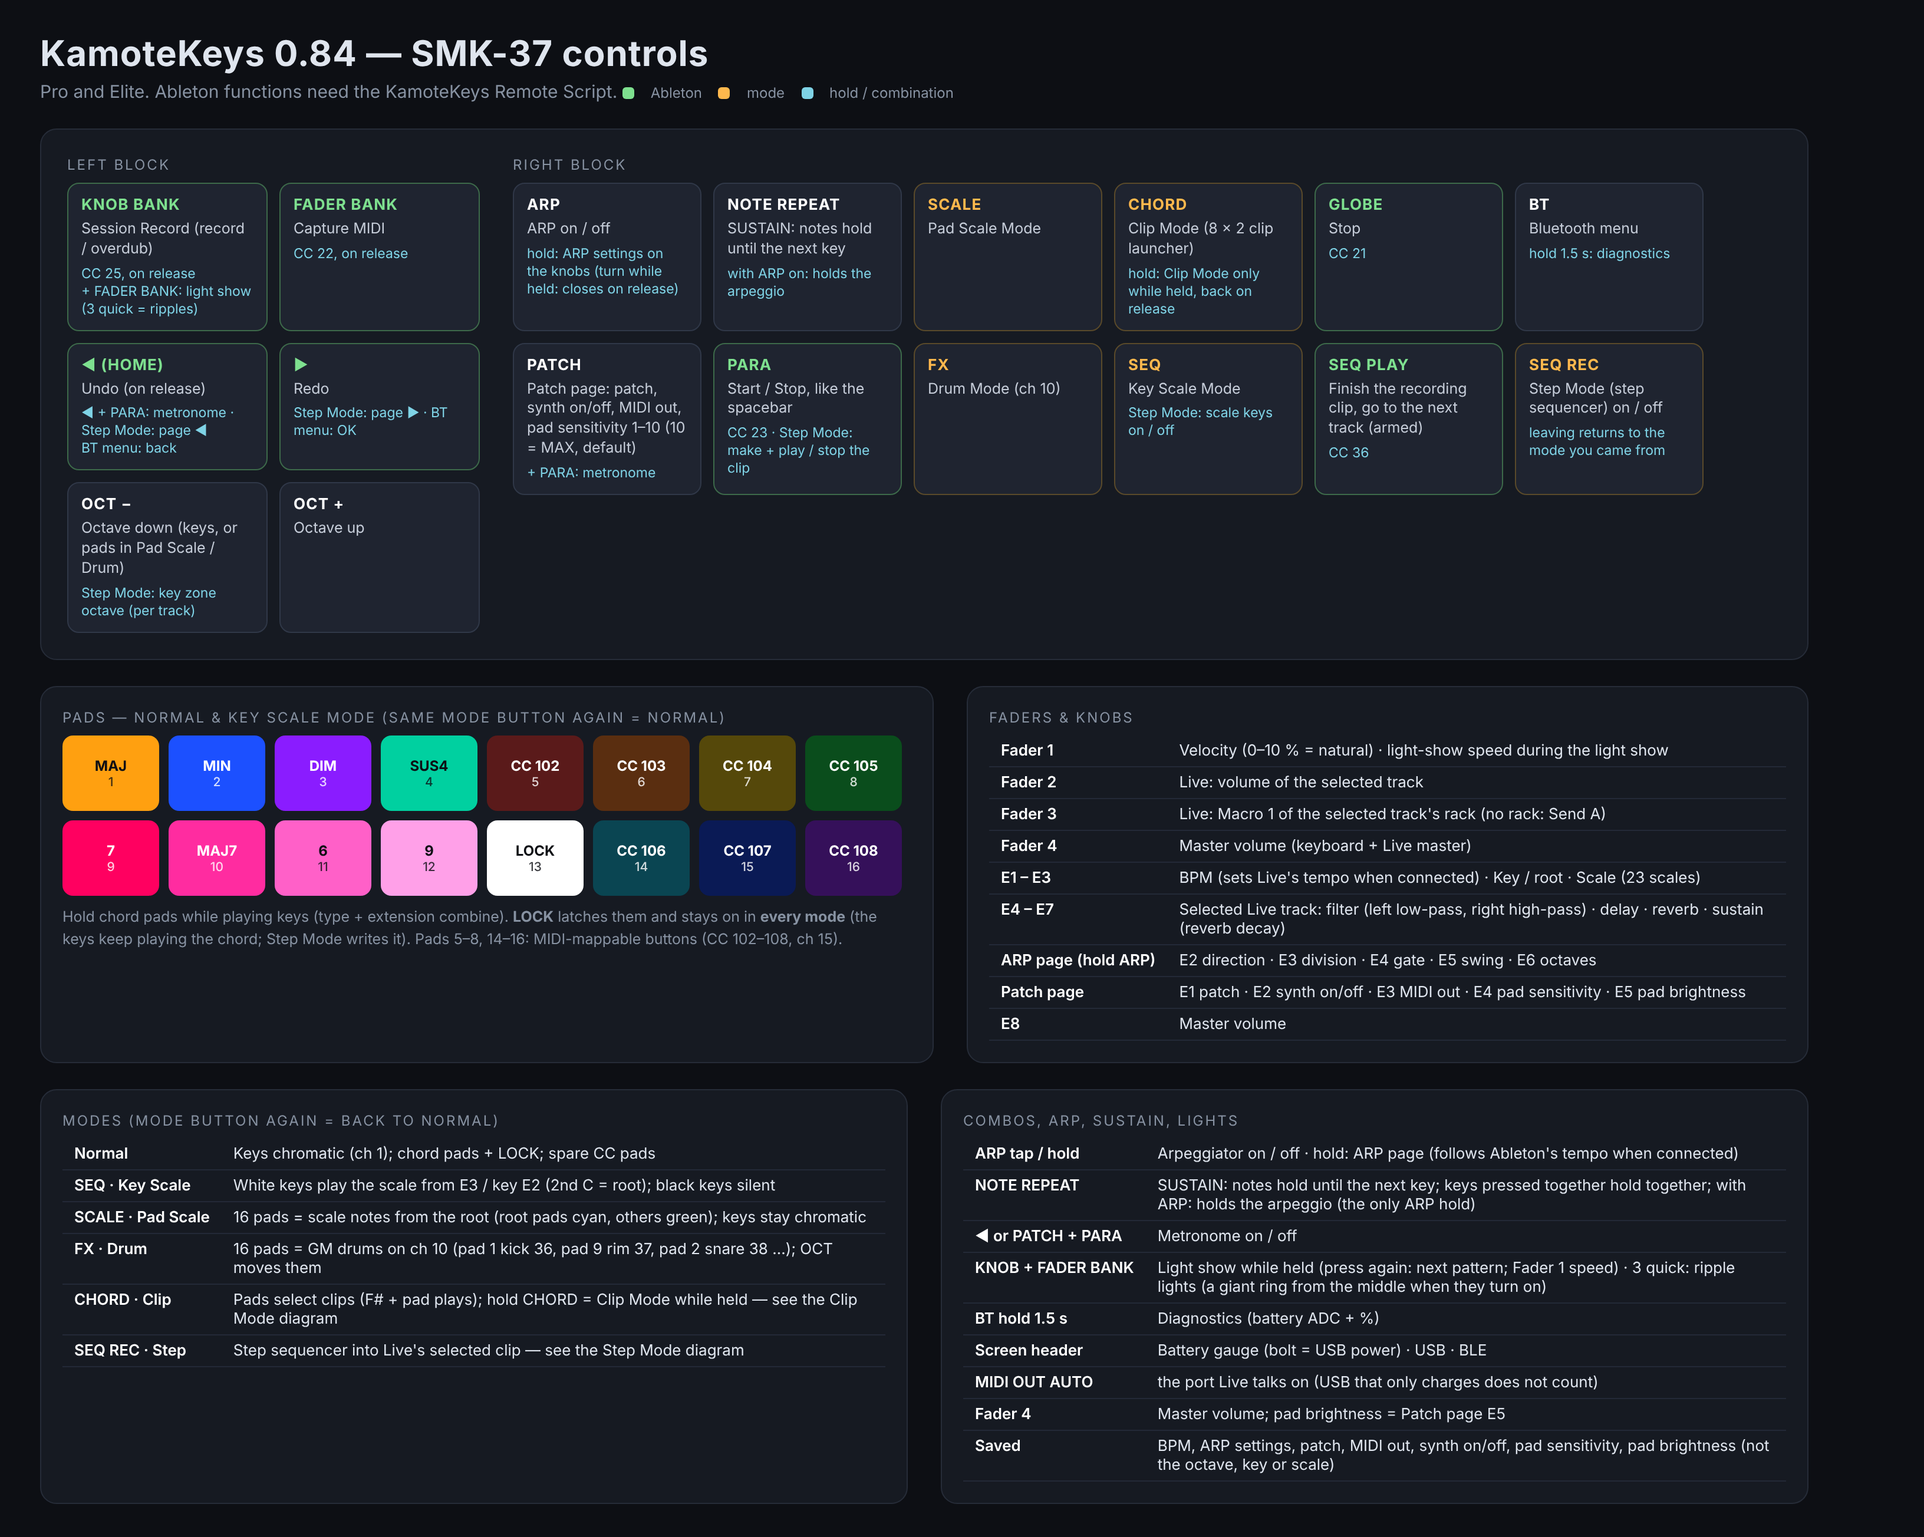
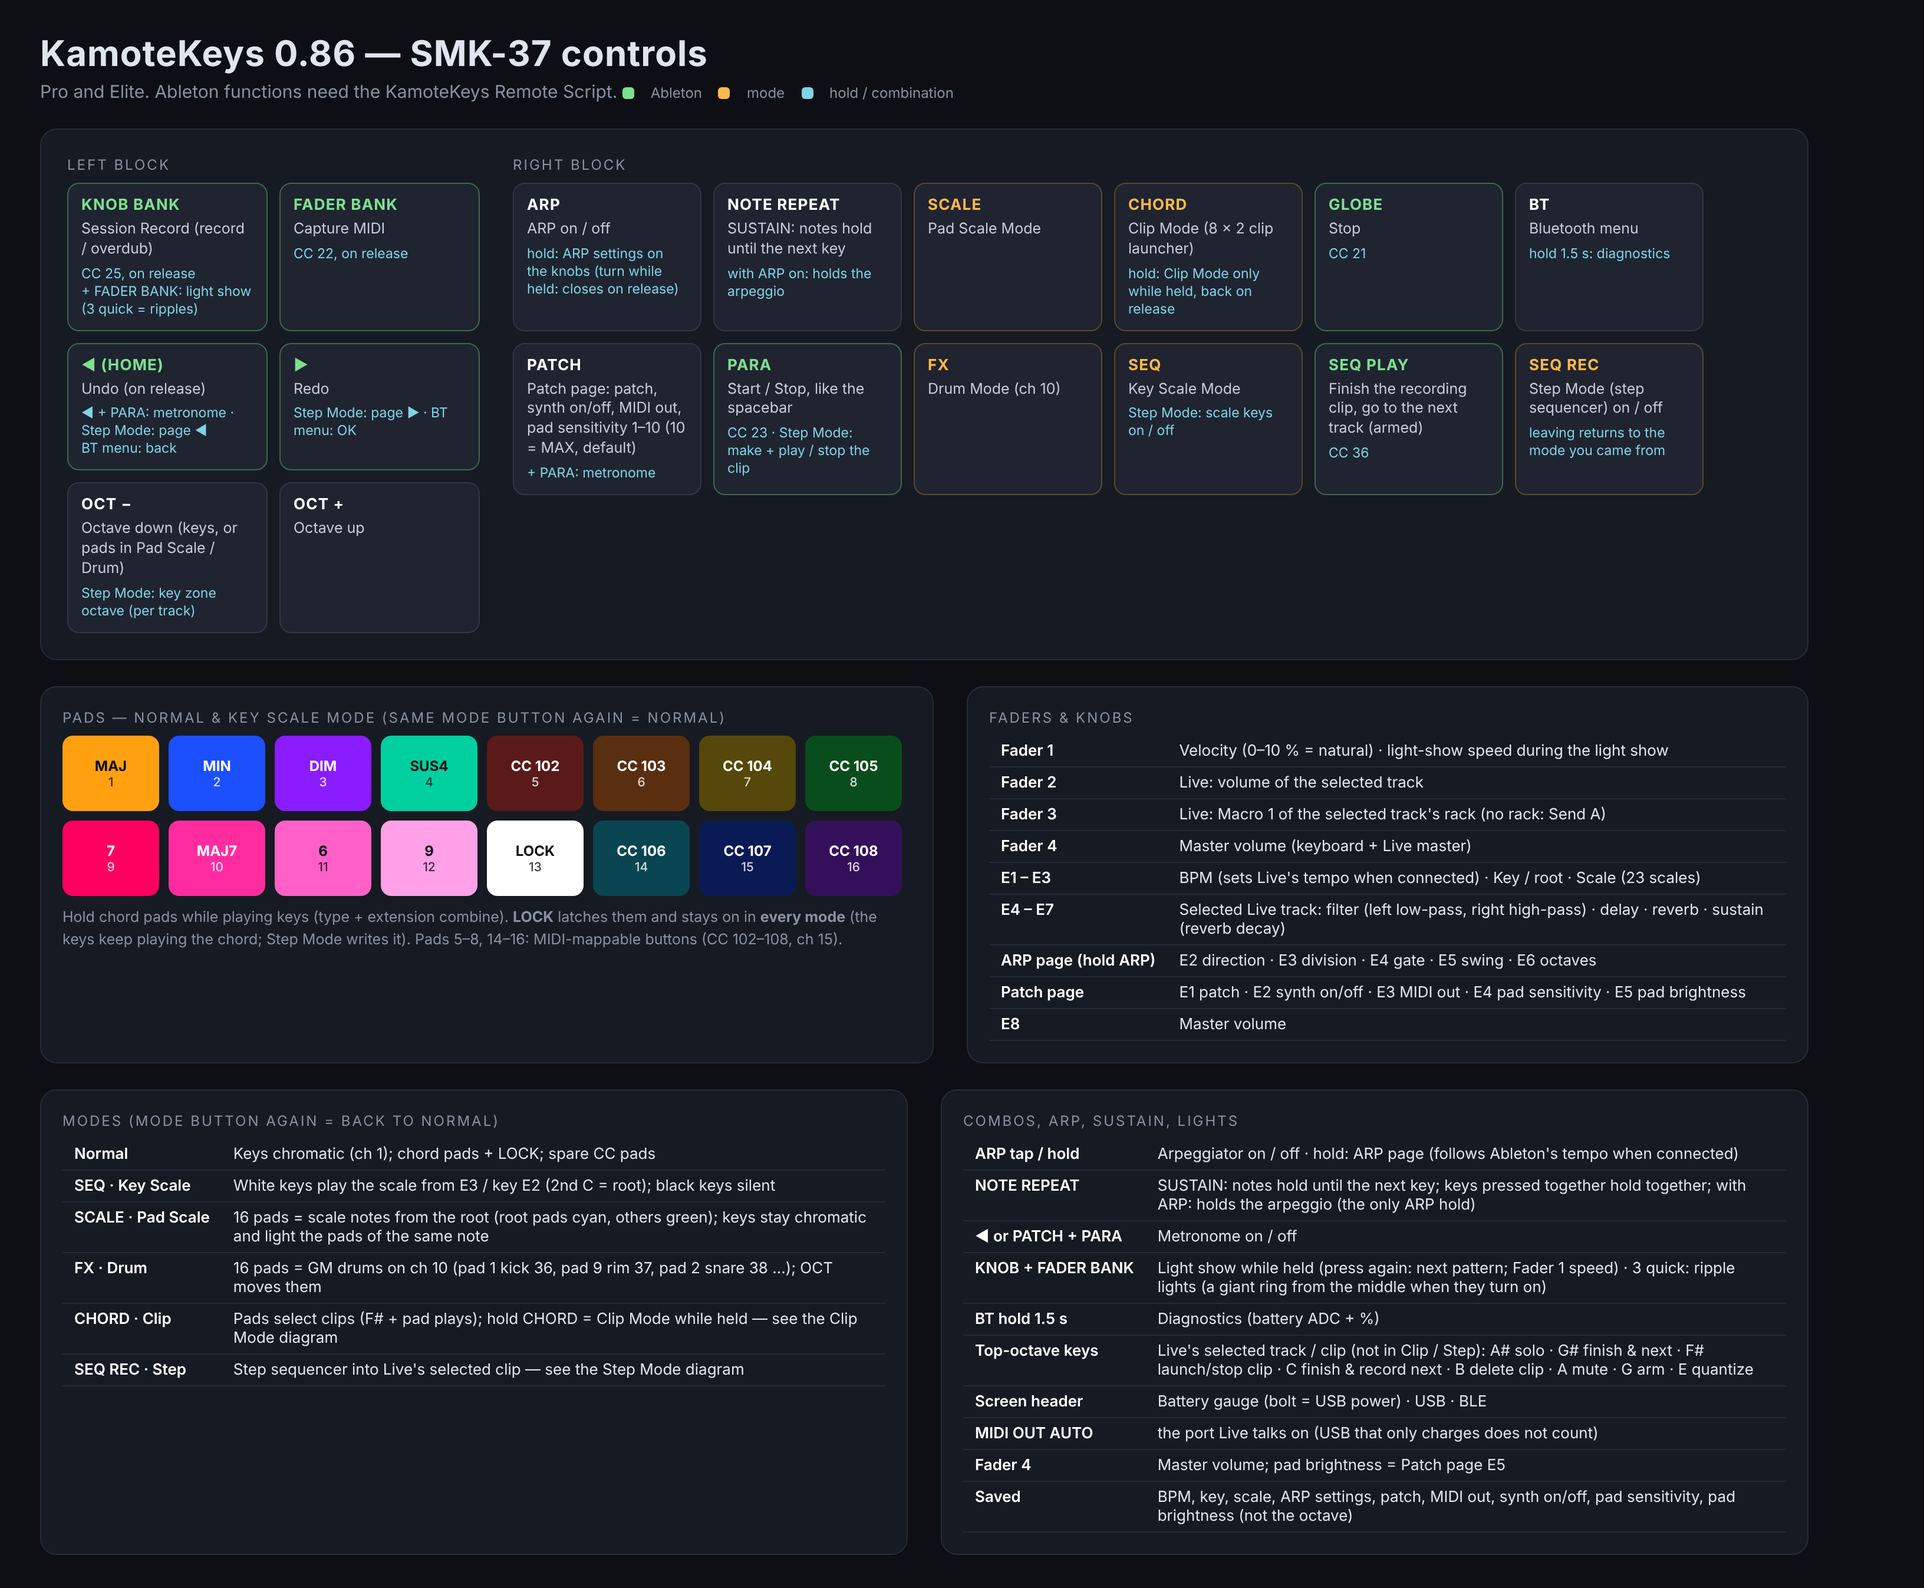
Docs for 0.85-0.86: top-octave Live keys, hold to scroll tracks, Pad Scale octave lighting, key/scale saved
README, HOW_TO_USE, MIDI_MAPPING, ABLETON_REMOTE_SCRIPT, CHANGELOG and the
SMK-37 diagrams.

Claude-Session: https://claude.ai/code/session_014nKCDtX9z2HT4cnrjTFgfW

diff --git a/README.md b/README.md
@@ -105,6 +105,24 @@ Diagrams: [all controls](docs/diagrams/SMK37-Controls.png) · [every control in 
 | RIGHT ▶ | Ableton **Redo** (CC 27). In the BT menu: SAVE (OK) | |
 | OCT − / OCT + | Octave −4 … +4. Keyboard starts at **−2**; in Pad Scale/Drum Mode they move the pad octave (starts at 0) | |
 
+### Top-octave Live keys
+
+In Normal, Key Scale, Pad Scale and Drum Mode the top octave controls the track and clip **selected in Live** (needs the Remote Script; Clip and Step Mode keep their own keys):
+
+| Key | Does |
+|---|---|
+| top **A#** | **Solo** the selected track on / off |
+| top **G#** | **Finish & next track** (same as SEQ PLAY) |
+| top **F#** | **Launch / stop** the selected clip (an empty slot on an armed track records) |
+| top **C** | **Finish & record next**: finish, select and arm the next track and record there at once (next empty slot) |
+| top **B** | **Delete** the selected clip |
+| top **A** | **Mute** the selected track on / off |
+| top **G** | **Arm** the selected track on / off |
+| top **F** | nothing (silent) |
+| top **E** | **Quantize** the selected clip (to Live's record quantization, else 1/16) |
+
+Top C#, D and D# still play notes.
+
 All Ableton commands are on **MIDI channel 15**. The pad map and the button-index verification are in [docs/CONTROLS.md](docs/CONTROLS.md).
 
 ## Faders
@@ -162,7 +180,7 @@ The **second physical C** plays the selected tonic, at octave 0 the tonic in the
 
 ### Clip Mode (CHORD)
 
-Pads 1–8 launch clip 1 and pads 9–16 clip 2 of Live tracks 1–8, on channel 16, with LEDs that follow Live (empty very dim, stopped dim blue, playing green, queued blinking amber, recording red). Needs the [KamoteKeys Remote Script](docs/ABLETON_REMOTE_SCRIPT.md). A plain pad press **selects** the slot and arms its track (so KNOB BANK records there); **F#** is **PLAY**: hold it and press clips to launch / stop them, or tap it and the next clip pressed is launched. Hold the **top F** + top G# / A# to move Live's selected clip a scene up / down. Hold the **lowest C** + a clip to **overdub** into it. Lowest black keys: **C# COPY**, **D# PASTE** (tap = next pad, hold = several), F# PLAY, **G# STOP** (hold + clips, or tap: the selected clip), **A# DELETE** (hold + clip); low **D = Scene Arrange** (tap pads to choose which tracks play in each scene; top F# launches exactly those); white **top A / B** select the previous / next track (the 8-track view follows when the selection leaves it: going left the track becomes the first of the 8, going right the last); top **F# / G# / A#** = scene launch / up / down. **Hold CHORD** from any mode for Clip Mode only while held. The screen shows the clip state, Live's selected track (number and name, big), the scene and the 8 tracks in view, and what is copied; the pad map shows each pad's track number and the start of its name. Live's highlighted slot is **violet**. Full guide: [docs/ABLETON_REMOTE_SCRIPT.md](docs/ABLETON_REMOTE_SCRIPT.md), [diagram](docs/diagrams/SMK37-Clip-Mode.png).
+Pads 1–8 launch clip 1 and pads 9–16 clip 2 of Live tracks 1–8, on channel 16, with LEDs that follow Live (empty very dim, stopped dim blue, playing green, queued blinking amber, recording red). Needs the [KamoteKeys Remote Script](docs/ABLETON_REMOTE_SCRIPT.md). A plain pad press **selects** the slot and arms its track (so KNOB BANK records there); **F#** is **PLAY**: hold it and press clips to launch / stop them, or tap it and the next clip pressed is launched. Hold the **top F** + top G# / A# to move Live's selected clip a scene up / down. Hold the **lowest C** + a clip to **overdub** into it. Lowest black keys: **C# COPY**, **D# PASTE** (tap = next pad, hold = several), F# PLAY, **G# STOP** (hold + clips, or tap: the selected clip), **A# DELETE** (hold + clip); low **D = Scene Arrange** (tap pads to choose which tracks play in each scene; top F# launches exactly those); white **top A / B** select the previous / next track (the 8-track view follows when the selection leaves it: going left the track becomes the first of the 8, going right the last; hold the key to move one more track every 0.5 s); top **F# / G# / A#** = scene launch / up / down. **Hold CHORD** from any mode for Clip Mode only while held. The screen shows the clip state, Live's selected track (number and name, big), the scene and the 8 tracks in view, and what is copied; the pad map shows each pad's track number and the start of its name. Live's highlighted slot is **violet**. Full guide: [docs/ABLETON_REMOTE_SCRIPT.md](docs/ABLETON_REMOTE_SCRIPT.md), [diagram](docs/diagrams/SMK37-Clip-Mode.png).
 
 ### Step Mode (SEQ REC)
 
@@ -170,7 +188,7 @@ A step sequencer that writes straight into the selected session clip in Live, la
 
 ### Pad Scale Mode (SCALE)
 
-All 16 pads play consecutive scale degrees in pad order (pad 1 = tonic at octave 3, e.g. D3), following the key (E2), the scale (E3) and the octave buttons. Channel 1. Root pads are **cyan** and the other pads **green**, both dim when idle and bright when pressed. The screen shows the note, root, scale and octave in a 2 × 8 pad map. The keyboard keeps playing chromatically.
+All 16 pads play consecutive scale degrees in pad order (pad 1 = tonic at octave 3, e.g. D3), following the key (E2), the scale (E3) and the octave buttons. Channel 1. Root pads are **cyan** and the other pads **green**, both dim when idle and bright when pressed or when that note sounds in any octave (so the keys light the pads of the notes you play). The screen shows the note, root, scale and octave in a 2 × 8 pad map. The keyboard keeps playing chromatically.
 
 ### Drum Mode (FX)
 
@@ -209,7 +227,7 @@ Encoders are numbered E1–E8, left to right; SMK37 OPEN calls them K1–K4, SEL
 | E7 | **Sustain** = reverb decay (selected track) | | | Action |
 | E8 | **Master volume** (always) | | | |
 
-E4–E7 need the Remote Script. It finds the effects on Live's selected track by type (also inside racks): Auto Filter; Delay, Echo, Ping Pong, Filter, Simple or Grain Delay; Reverb or Hybrid Reverb. The screen shows the new value, or `NO REVERB` etc. when the track has none. Hold **ARP** to edit the ARP settings with the knobs.
+E4–E7 need the Remote Script. It finds the effects on Live's selected track by name (also inside racks): an Auto Filter (old or new), any delay or Echo, any reverb (incl. Hybrid Reverb). If one is missing, Live's status bar lists the devices it saw. The screen shows the new value, or `NO REVERB` etc. when the track has none. Hold **ARP** to edit the ARP settings with the knobs.
 
 Changes on the main screen appear as a short message in the status line.
 
@@ -293,7 +311,7 @@ Note Offs always go to every port, so a port change between Note On and Note Off
 
 ## Saved settings
 
-Saved automatically, about 1.5 s after the last change and only while nothing is playing, in SMK37 OPEN's journaled settings sector: **BPM, ARP on/off, direction, division, gate, swing, octaves, DX7 patch, MIDI OUT ports, internal synth on/off, pad LED timing, pad sensitivity, pad brightness**. The **octave is not saved**: keys start at −2 and pads at 0 on every power-on. Key and scale (E2 / E3) are not saved: they start at C Major. Velocity comes from Fader 1; Faders 2 / 3 control Live and Fader 4 is the master volume. Bluetooth settings are stored by SMK37 OPEN as before.
+Saved automatically, about 1.5 s after the last change and only while nothing is playing, in SMK37 OPEN's journaled settings sector: **BPM, key, scale, ARP on/off, direction, division, gate, swing, octaves, DX7 patch, MIDI OUT ports, internal synth on/off, pad LED timing, pad sensitivity, pad brightness**. The **octave is not saved**: keys start at −2 and pads at 0 on every power-on. Velocity comes from Fader 1; Faders 2 / 3 control Live and Fader 4 is the master volume. Bluetooth settings are stored by SMK37 OPEN as before.
 
 ## Build
 

diff --git a/docs/ABLETON_REMOTE_SCRIPT.md b/docs/ABLETON_REMOTE_SCRIPT.md
@@ -68,7 +68,7 @@ Live talks to the script on **one** MIDI port. In Preferences → Link, Tempo & 
 | **C#** COPY | tap (or hold), then press a clip: it becomes the clipboard (replacing the last one) |
 | **D#** PASTE | tap, then the next pad gets a copy of the clip (Live's Duplicate); hold PASTE to paste into several pads; tap again to cancel |
 | **A#** DELETE | hold + a clip: delete it |
-| **top A / B** (white, 3rd / 2nd from the right) | select the previous / next track. The 8-track view follows when the selection leaves it (left: the track becomes the first of the 8, right: the last) and stops at the ends. No session box is drawn in Live, so Live's window only scrolls to keep the selected track in sight |
+| **top A / B** (white, 3rd / 2nd from the right) | select the previous / next track. The 8-track view follows when the selection leaves it (left: the track becomes the first of the 8, right: the last) and stops at the ends. Hold the key to move one more track every 0.5 s. No session box is drawn in Live, so Live's window only scrolls to keep the selected track in sight |
 | **G#** | **STOP** (0.77): hold + clips = stop them; a tap stops the selected clip |
 | **D** (white) | **Scene Arrange** on / off (below) |
 | top **F# / G# / A#** | launch the selected scene / scene up / scene down (the 8 × 2 grid scrolls with Live's selected scene) |
@@ -76,7 +76,9 @@ Live talks to the script on **one** MIDI port. In Preferences → Link, Tempo & 
 
 The screen shows the clip state, **Live's selected track (number and name)**, the scene and the 8 tracks in view, and the clipboard (COPIED T3 S2), or COPY: / PASTE: while it waits for a pad, and DELETE while A# is held. The pad map shows each pad's track number and the first letters of its name. **Hold CHORD** in any mode for Clip Mode only while it is held.
 
-**Mixing the selected track.** Fader 2 = its volume, Fader 3 = Macro 1 of its first rack (else Send A). Knobs E4–E7 = **filter** (Auto Filter: left = low-pass closing, centre = open, right = high-pass), **delay** amount (Delay, Echo, Ping Pong, Filter, Simple or Grain Delay: Dry/Wet), **reverb** amount (Reverb or Hybrid Reverb: Dry/Wet) and **sustain** (the reverb's Decay). The script looks at the track's devices and one level inside racks; the screen shows the new value or `NO DELAY` etc.
+**Mixing the selected track.** Fader 2 = its volume, Fader 3 = Macro 1 of its first rack (else Send A). Knobs E4–E7 = **filter** (Auto Filter: left = low-pass closing, centre = open, right = high-pass), **delay** amount (Delay, Echo, Ping Pong, Filter, Simple or Grain Delay: Dry/Wet), **reverb** amount (Reverb or Hybrid Reverb: Dry/Wet) and **sustain** (the reverb's Decay). The script looks at the track's devices and one level inside racks and matches them by name (old and new Auto Filter, any delay or Echo, any reverb); the screen shows the new value or `NO DELAY` etc., and Live's status bar then lists the devices it saw.
+
+**Top-octave Live keys** (outside Clip and Step Mode): A# solo, G# finish & next track, F# launch / stop the selected clip, C finish & record on the next track, B delete the selected clip, A mute, G arm, E quantize the selected clip (to Live's record quantization, else 1/16).
 
 **Scene Arrange (low D since 0.77).** The two pad rows are two scenes. Tap a pad to turn that track **on** (green) or **off** (dim orange) in that scene; dark = the track has no clip at all. Each track keeps **one clip**: in a scene it plays its clip from that scene, or else the nearest clip above (then below). **Top F#** launches the selected scene: if that scene has an arrangement, KamoteKeys fires exactly the chosen tracks' clips and stops the other tracks, so editing a clip once changes it in every scene. Scenes you never arranged launch normally. The choice is saved in the Live set. Live's own scene buttons (mouse) do not know about it.
 

diff --git a/HOW_TO_USE.md b/HOW_TO_USE.md
@@ -58,6 +58,15 @@ Each time you update KamoteKeys, also replace the Remote Script folder and resta
 
 The effect knobs need the Remote Script and an Auto Filter / Delay (or Echo) / Reverb on the track; the screen says `NO REVERB` etc. if one is missing.
 
+**Top-octave Live keys** (all modes except Clip and Step), for the track / clip selected in Live:
+
+| Key | Does |
+|---|---|
+| top A# / G# / F# | solo track / finish & next track / launch-stop clip |
+| top C / B / A / G / E | finish & record on the next track / delete clip / mute track / arm track / quantize clip |
+
+Key and scale (E2 / E3) are remembered after power-off.
+
 ---
 
 ## 3. Play
@@ -72,7 +81,7 @@ The effect knobs need the Remote Script and an Auto Filter / Delay (or Echo) / R
 - Chord pads still work and stay in the scale. A locked chord stays on.
 
 ### Pads as notes (Pad Scale, SCALE) and drums (Drum, FX)
-- **SCALE**: the 16 pads play the scale (root pads cyan).
+- **SCALE**: the 16 pads play the scale (root pads cyan). Keys you play light the pads with the same note.
 - **FX**: the pads are GM drums on channel 10 (kick top left, rim below it, snare next …), coloured by drum type. OCT moves them by an octave.
 
 ### Lights
@@ -96,7 +105,7 @@ Press **CHORD**. The pads are 8 tracks × 2 scenes of Live's Session View, colou
 | delete a clip | hold **A#** and press it |
 | scroll scenes / launch a scene | top **G# / A#** / top **F#** |
 | move the selected clip up / down | hold the **top F** and press top G# / A# |
-| select the previous / next track | top **A / B** (the 8 tracks shown follow; the screen shows their numbers and names) |
+| select the previous / next track | top **A / B** (hold: one more every 0.5 s; the 8 tracks shown follow; the screen shows their numbers and names) |
 | use clips quickly from any mode | **hold CHORD**, press pads, let go |
 
 **Build a song from loops (Scene Arrange):** press the low **D**. The two pad rows are two scenes; tap pads to choose which tracks play in each scene (green on, dim off). Launch a scene with the top F#: exactly those tracks play, each with its one clip, so editing a clip changes every scene. Press D again to leave.

diff --git a/CHANGELOG.md b/CHANGELOG.md
@@ -1,5 +1,16 @@
 # Changelog
 
+## KamoteKeys 0.86 (development snapshot)
+
+- **Top-octave Live keys** (outside Clip and Step Mode), for Live's selected track / clip: A# solo, G# finish & next track, F# launch / stop clip, C finish & record on the next track, B delete clip, A mute, G arm, E quantize.
+- **Clip Mode:** hold top A / B to move one more track every half second.
+- **Pad Scale:** a played note lights the pads of that note in every octave.
+- **Key and scale are remembered** after power-off.
+
+## KamoteKeys 0.85 (development snapshot)
+
+- **Effect knobs (E4–E7) find devices by name**, including the new Auto Filter; when one is missing, Live's status bar lists the devices on the track.
+
 ## KamoteKeys 0.84 (development snapshot)
 
 - **No more session box in Live.** Live scrolled its window to the box and back on every move (snapping to tracks 4 / 1, keeping the middle in view). Now Live only scrolls to keep the selected track in sight.

diff --git a/docs/MIDI_MAPPING.md b/docs/MIDI_MAPPING.md
@@ -146,6 +146,15 @@ Channel 14 never reaches the internal synth.
 | 38 | Fader 2 | selected track volume, 0–127 (127 = 0 dB) |
 | 39 | Fader 3 | Macro 1 of the selected track's first rack, else its Send A, 0–127 |
 | 40 / 41 / 42 / 43 | E4 / E5 / E6 / E7 | selected track's filter / delay amount / reverb amount / reverb decay, relative: 64 + knob steps |
+| 44 | top A# | solo the selected track (127 press / 0 release, also below) |
+| 45 | top F# | launch / stop the selected clip |
+| 46 | top C | finish, select + arm the next track, record there |
+| 47 | top B | delete the selected clip |
+| 48 | top A | mute the selected track |
+| 49 | top G | arm the selected track |
+| 50 | top E | quantize the selected clip |
+
+Top G# sends CC 36 (finish & next track). The top keys send these outside Clip and Step Mode only.
 
 **Track names and effect values, channel 16 (Live → keyboard):**
 
